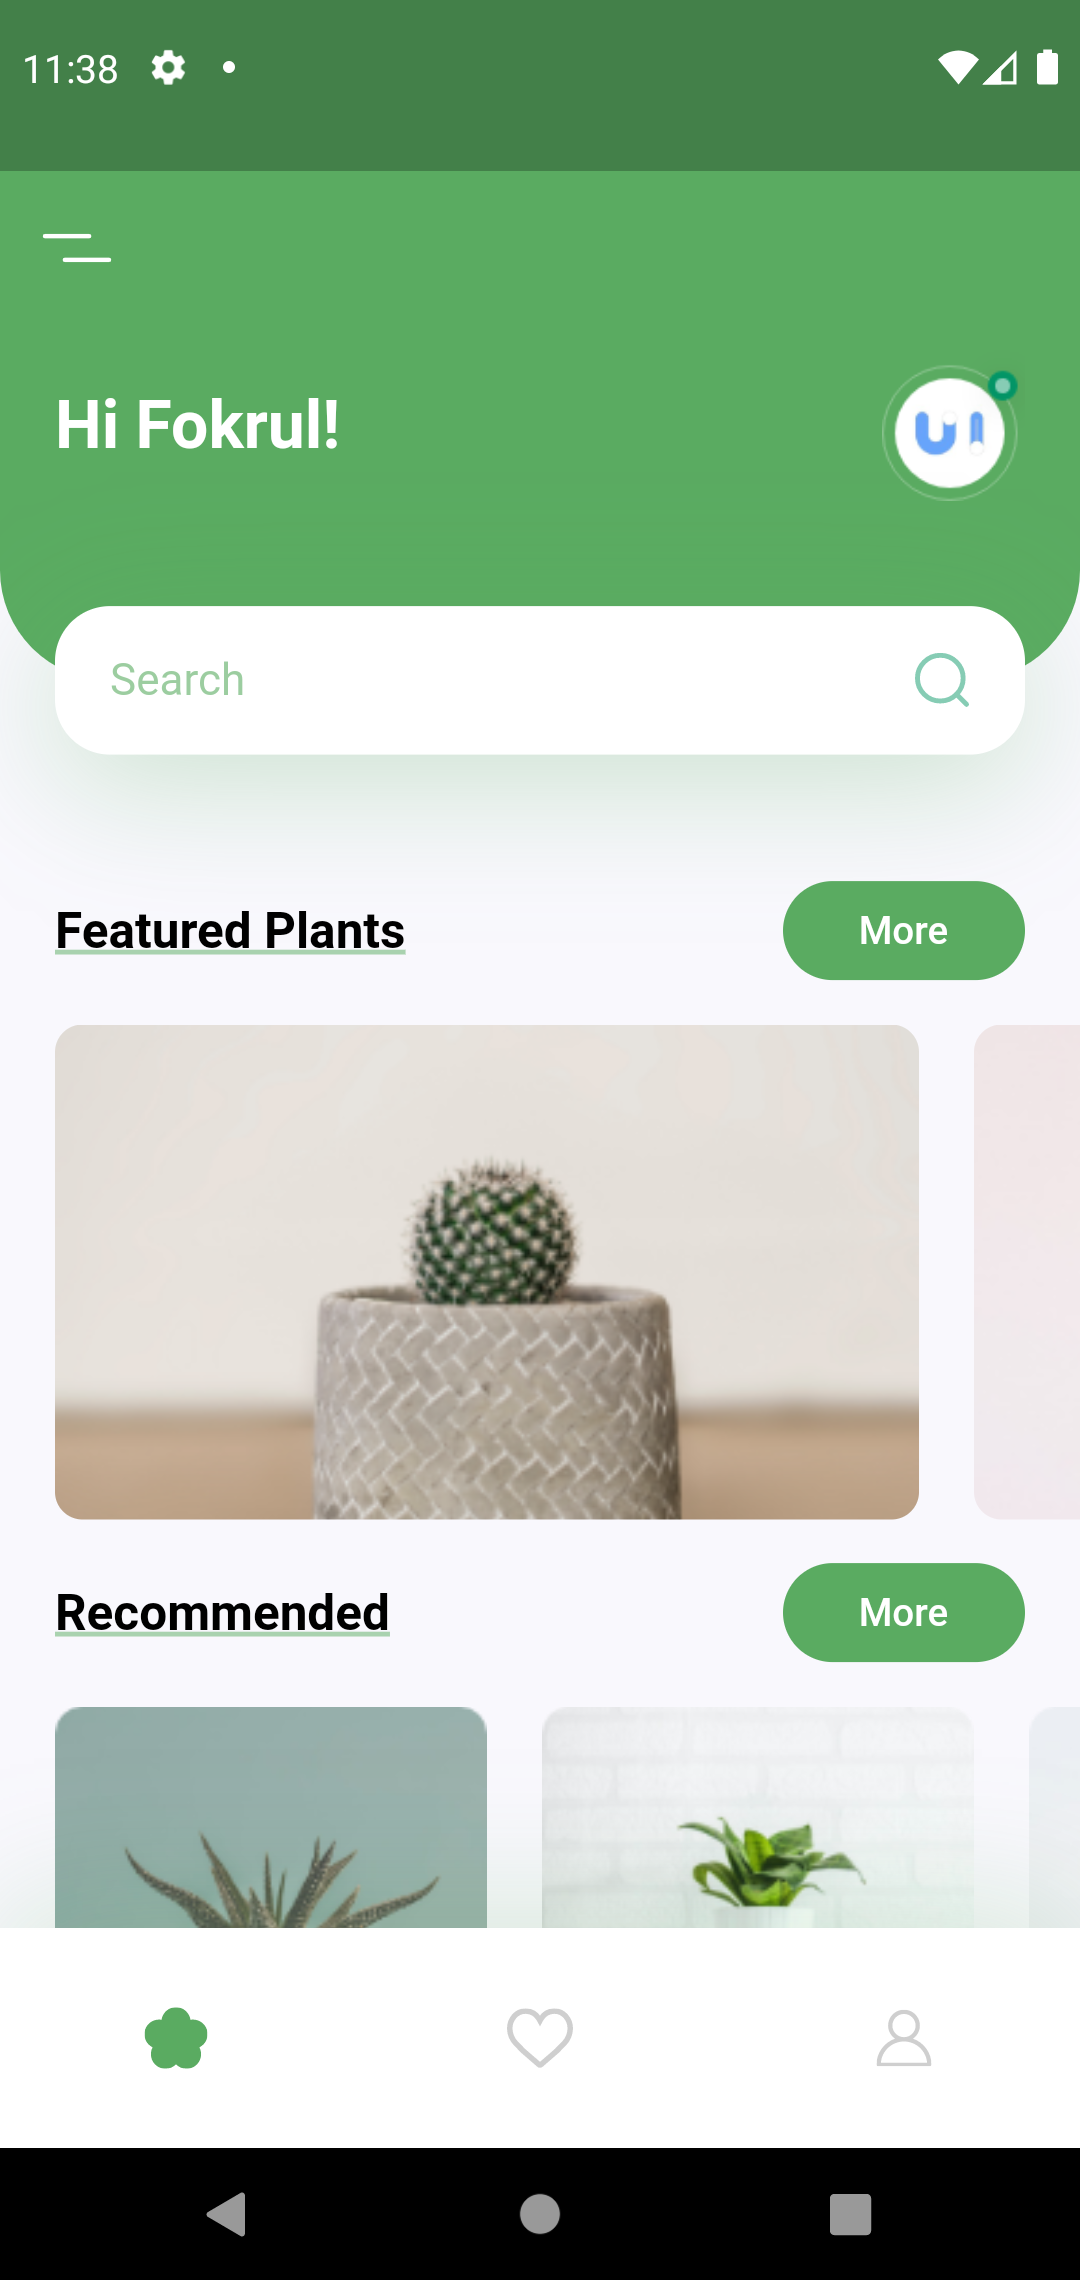
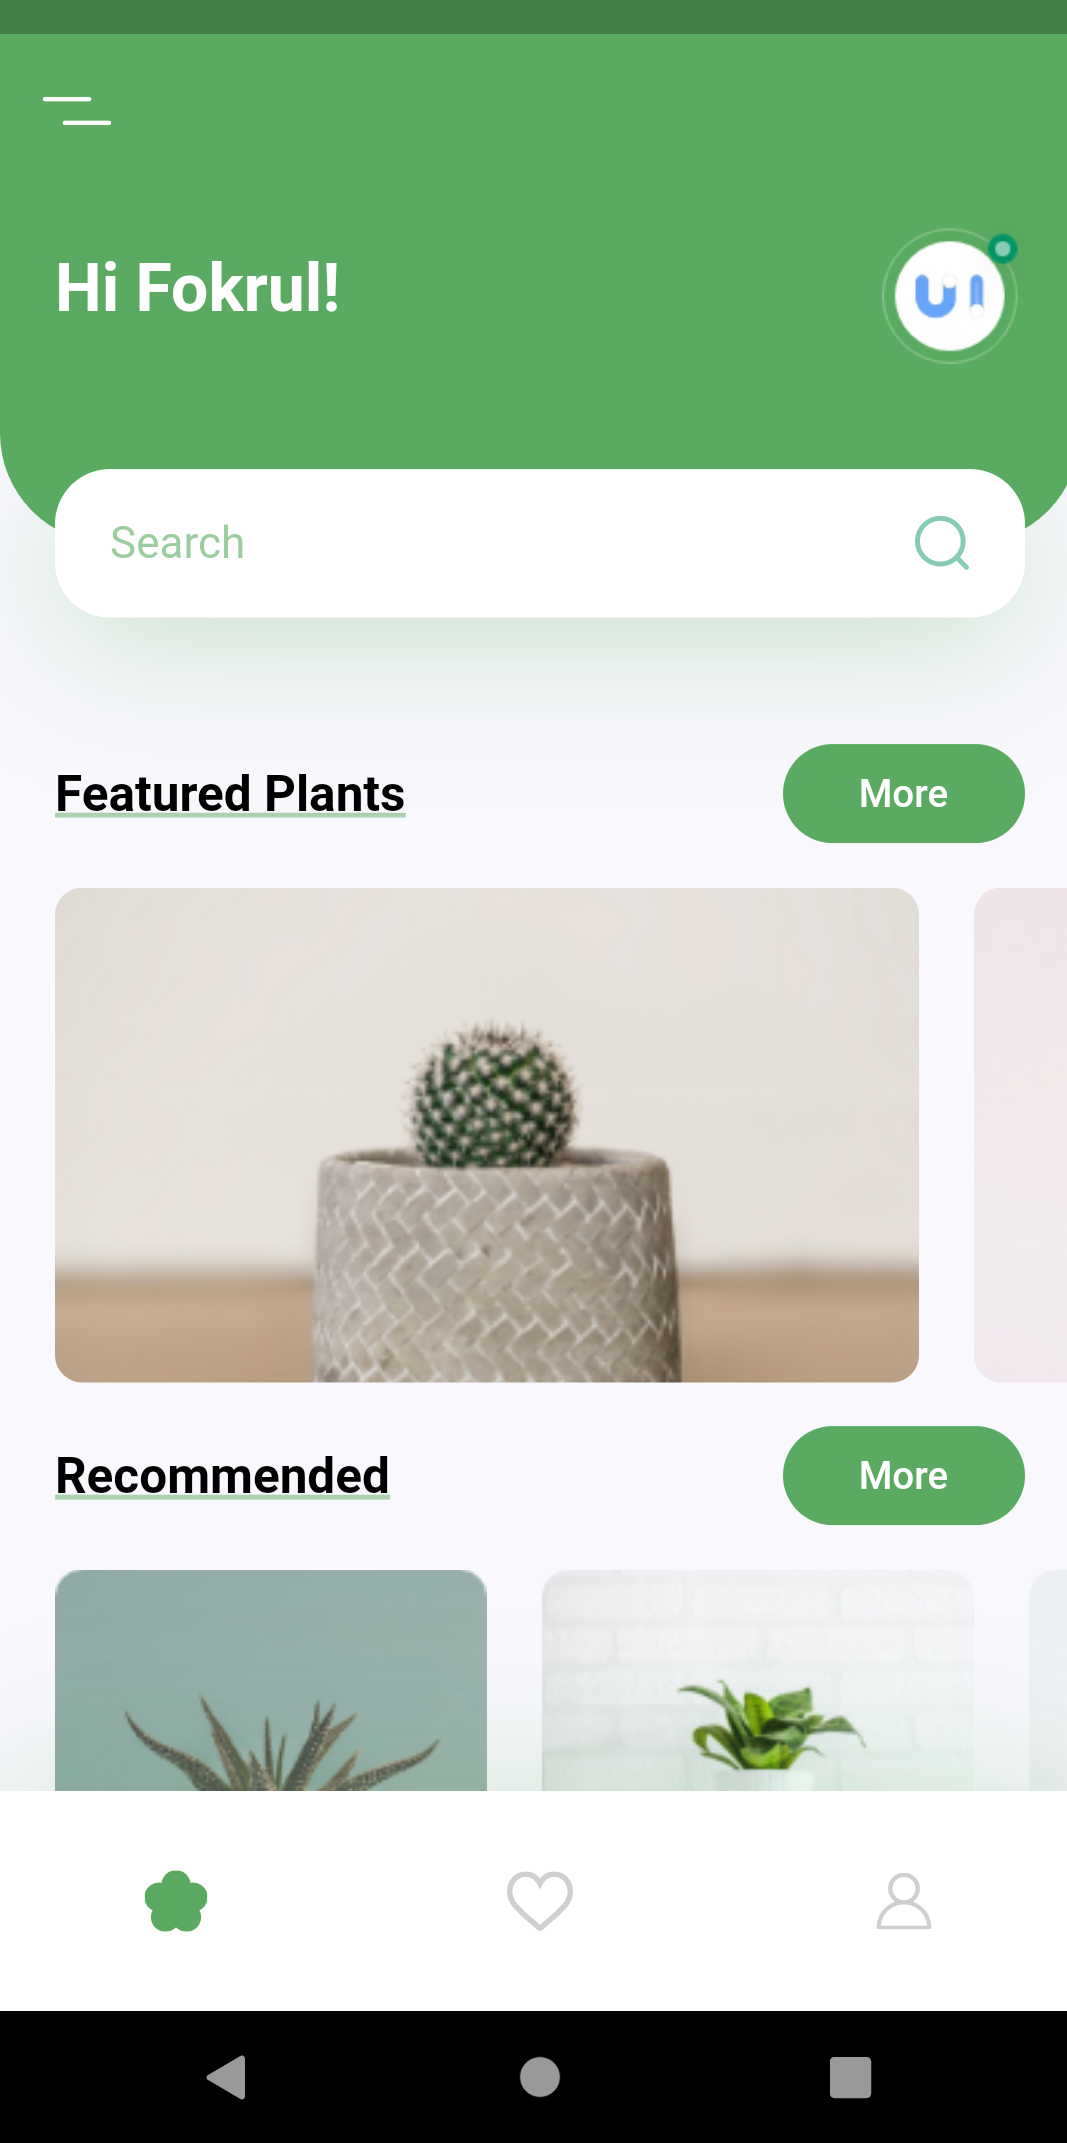
change readme of plant_now

Changed region(s): [[0.0, 0.3388, 1.0, 0.9855], [0.0, 0.0, 1.0, 0.308], [0.9588, 0.8315, 1.0, 0.8623]]

diff --git a/plant_now/README.md b/plant_now/README.md
@@ -15,5 +15,5 @@ A new Flutter project.
 
 ## screenshots
 
-![Screenshot_1](https://user-images.githubusercontent.com/36418693/110215762-ac5f6980-7ed5-11eb-8acb-cbce0845128c.png)
-![Screenshot_2](https://user-images.githubusercontent.com/36418693/110215763-ae292d00-7ed5-11eb-82e9-060146a7e72a.png)
+![](Screenshot/Screenshot_1.png 100x200)
+![](Screenshot/Screenshot_2.png 100x200)
